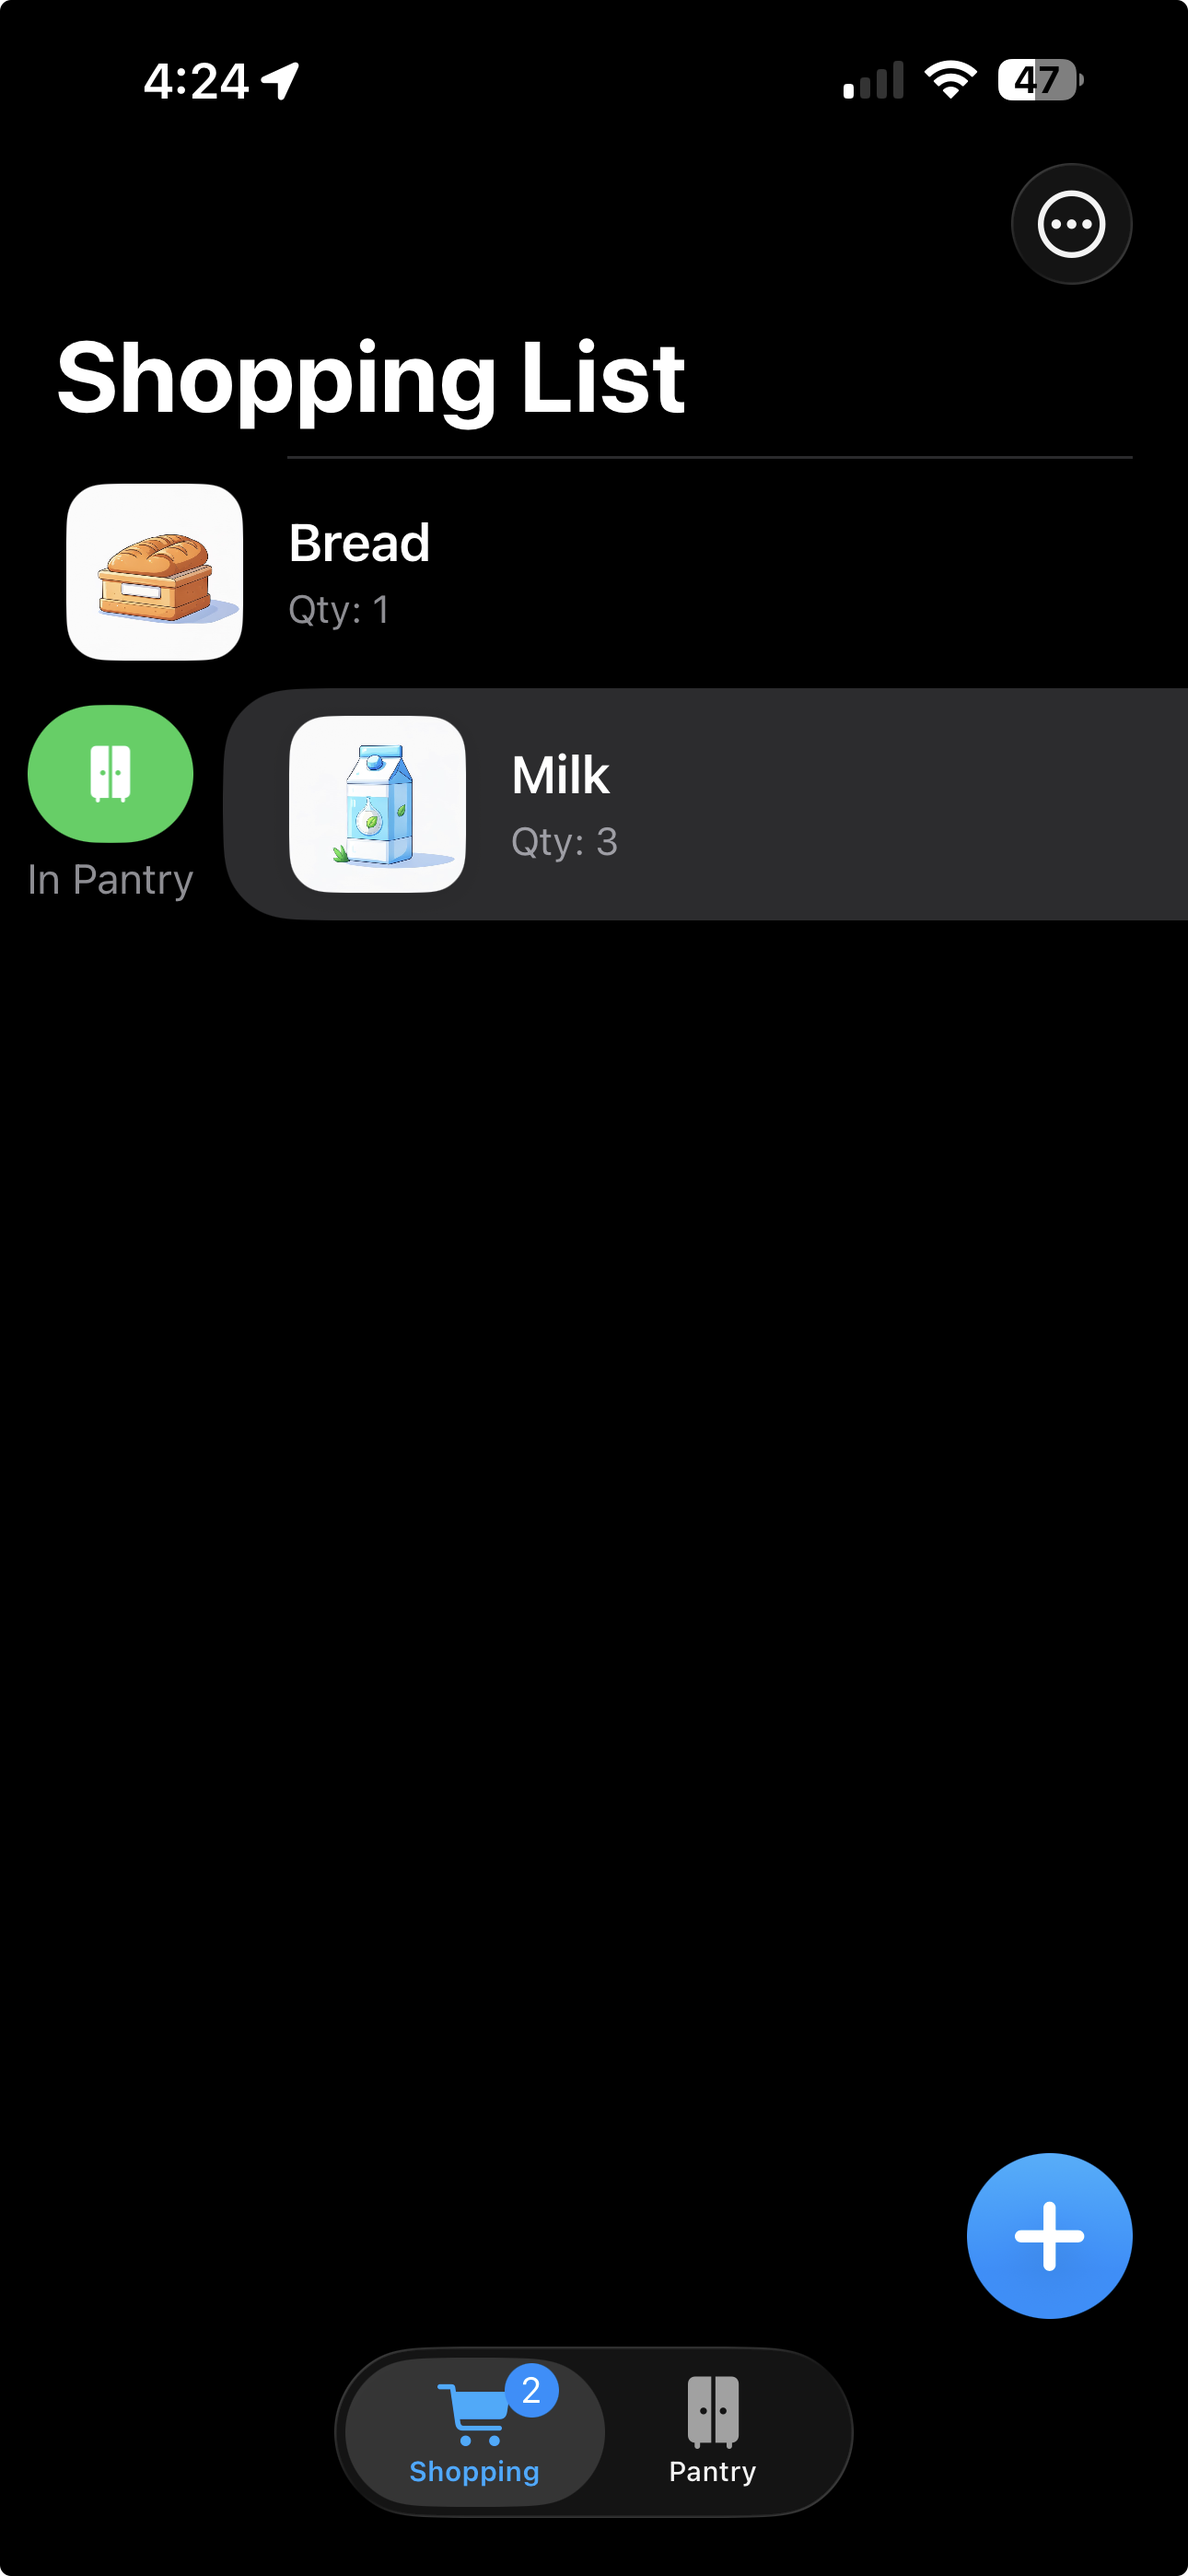
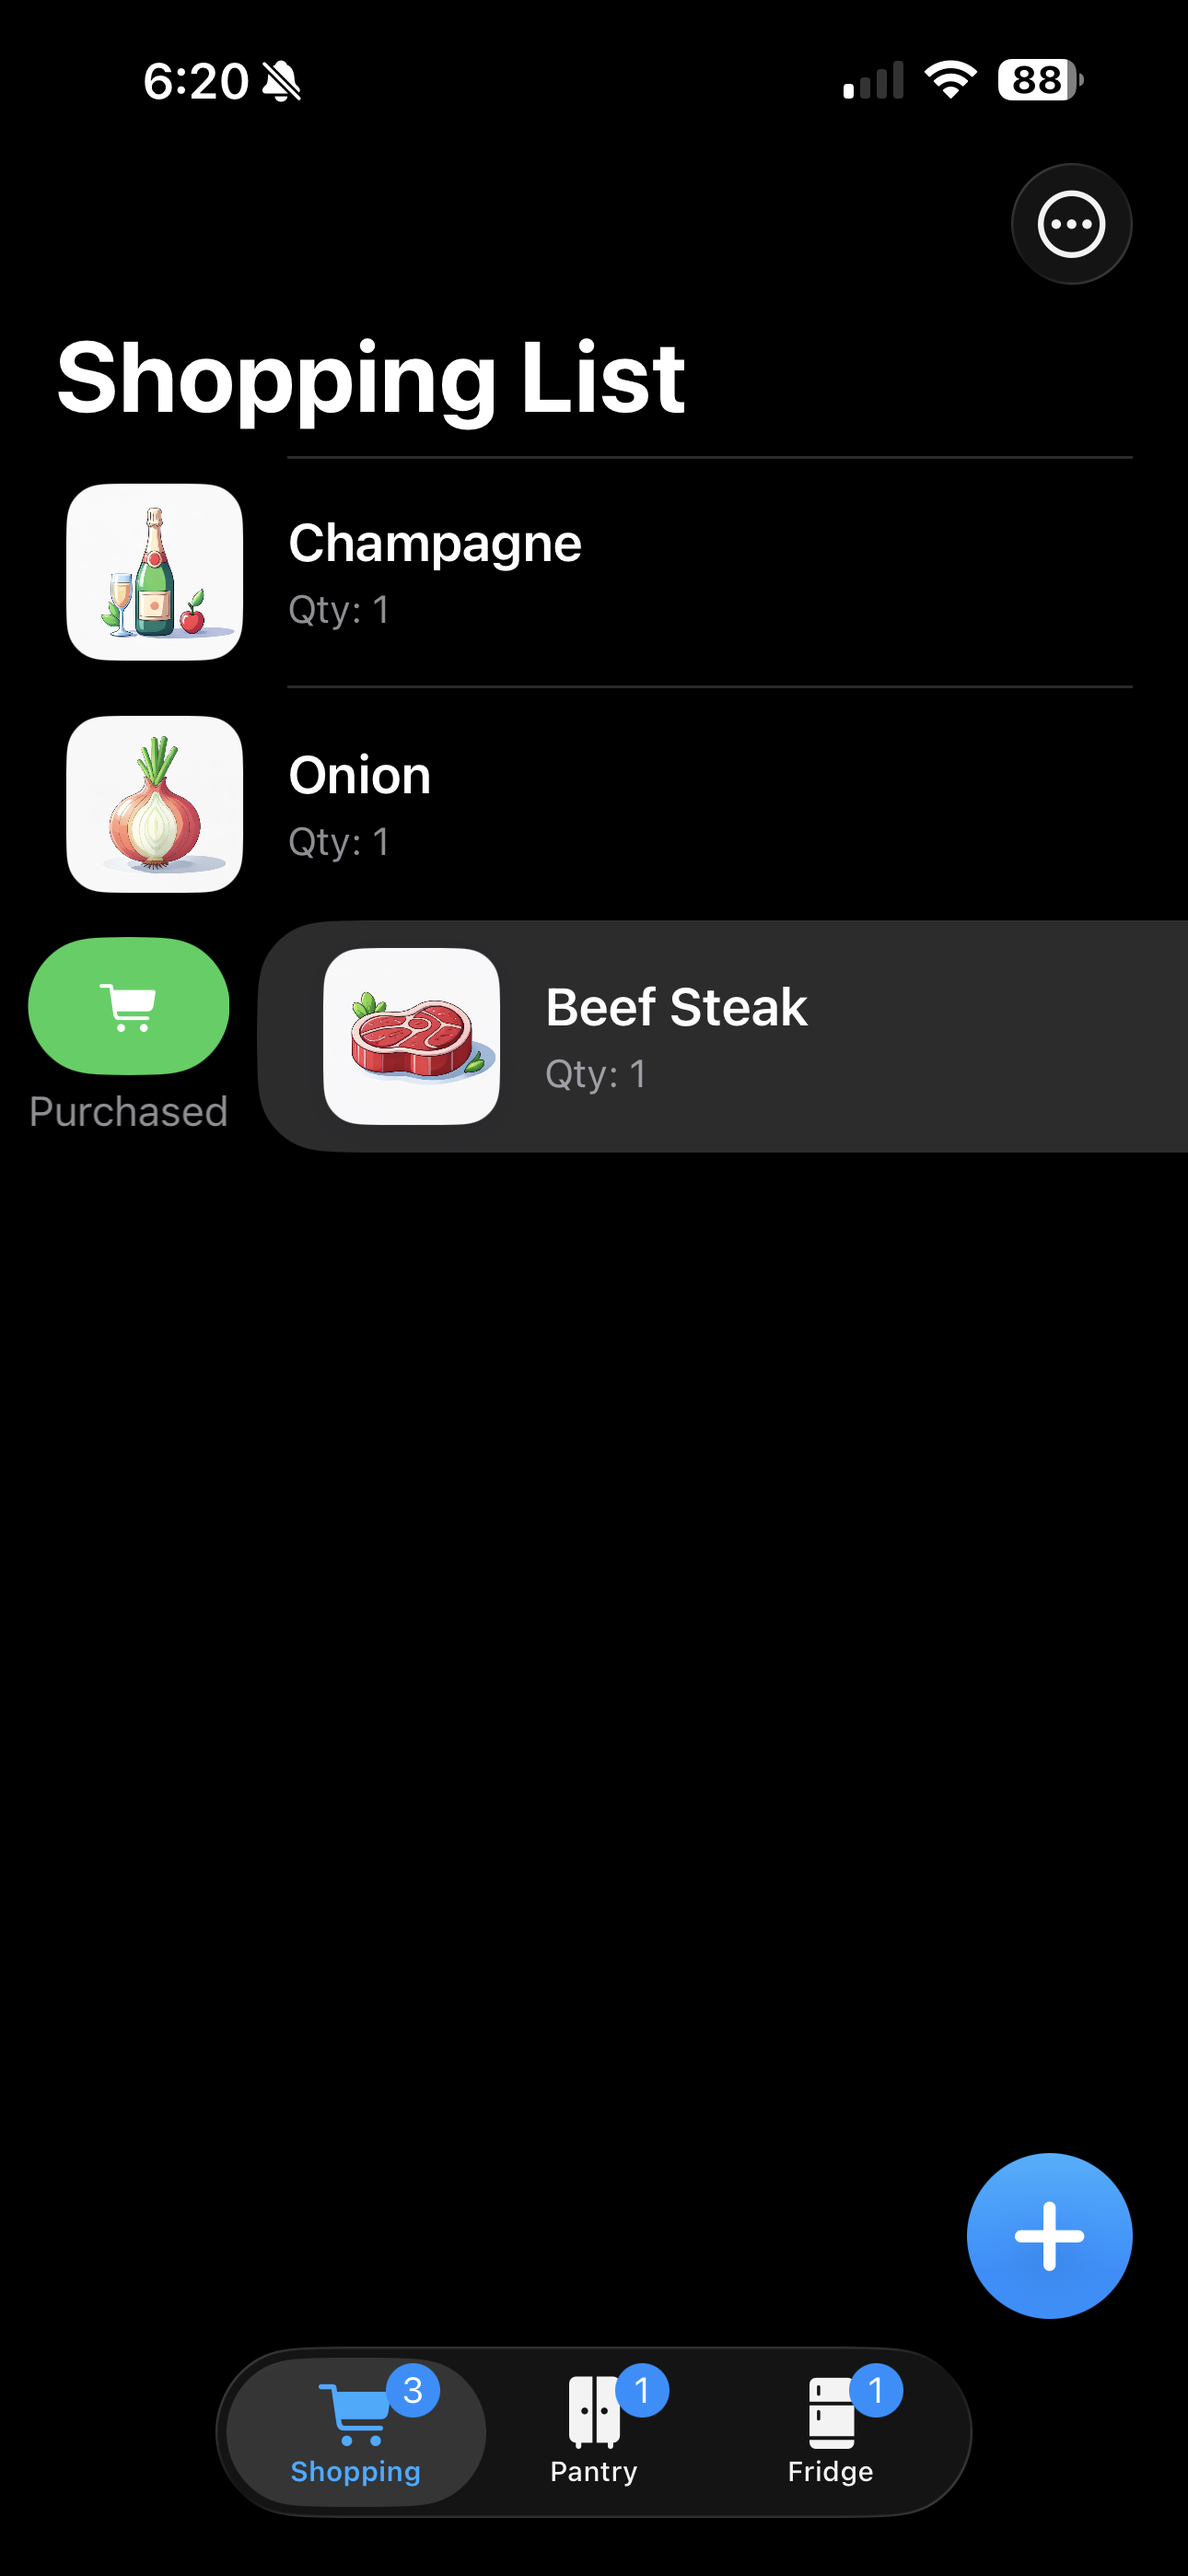
updated for 1.2 release
updated features for 1.2 release

diff --git a/index.html b/index.html
@@ -41,10 +41,12 @@
             <div class="feature-container">
                 <div class="feature-item">
                     <div class="feature-text">
-                        <h3>Pantry Management</h3>
-                        <p>Seamlessly manage your Shopping List and Pantry with dual lists, quick item movement, and
-                            smart
-                            merging.</p>
+                        <h3>Total Inventory Control</h3>
+                        <p>Manage a <strong>Shopping List</strong>, <strong>Pantry</strong>, and <strong>Fridge</strong>
+                            from the same app using a native Tab Bar. Swipe right on any item to instantly move it
+                            between lists, or use bulk actions to move entire lists at once. Smart merging intelligently
+                            combines quantities for existing items, while date stamps track exactly when each item was
+                            added to your inventory.</p>
                     </div>
                     <div class="feature-image">
                         <img src="pantry.png" alt="Pantry Management Screenshot">

diff --git a/style.css b/style.css
@@ -213,6 +213,34 @@ section h2 {
     line-height: 1.6;
 }
 
+.feature-list {
+    list-style: none;
+    padding: 0;
+    margin: 20px 0 0 0;
+    text-align: left;
+}
+
+.feature-list li {
+    font-size: 1.1rem;
+    color: #b0b0b0;
+    margin-bottom: 8px;
+    line-height: 1.6;
+    position: relative;
+    padding-left: 20px;
+}
+
+.feature-list li::before {
+    content: "•";
+    position: absolute;
+    left: 0;
+    color: #6dd5ed;
+    font-weight: bold;
+}
+
+.feature-list li strong {
+    color: #e0e0e0;
+}
+
 /* Download Section */
 .download {
     text-align: center;
